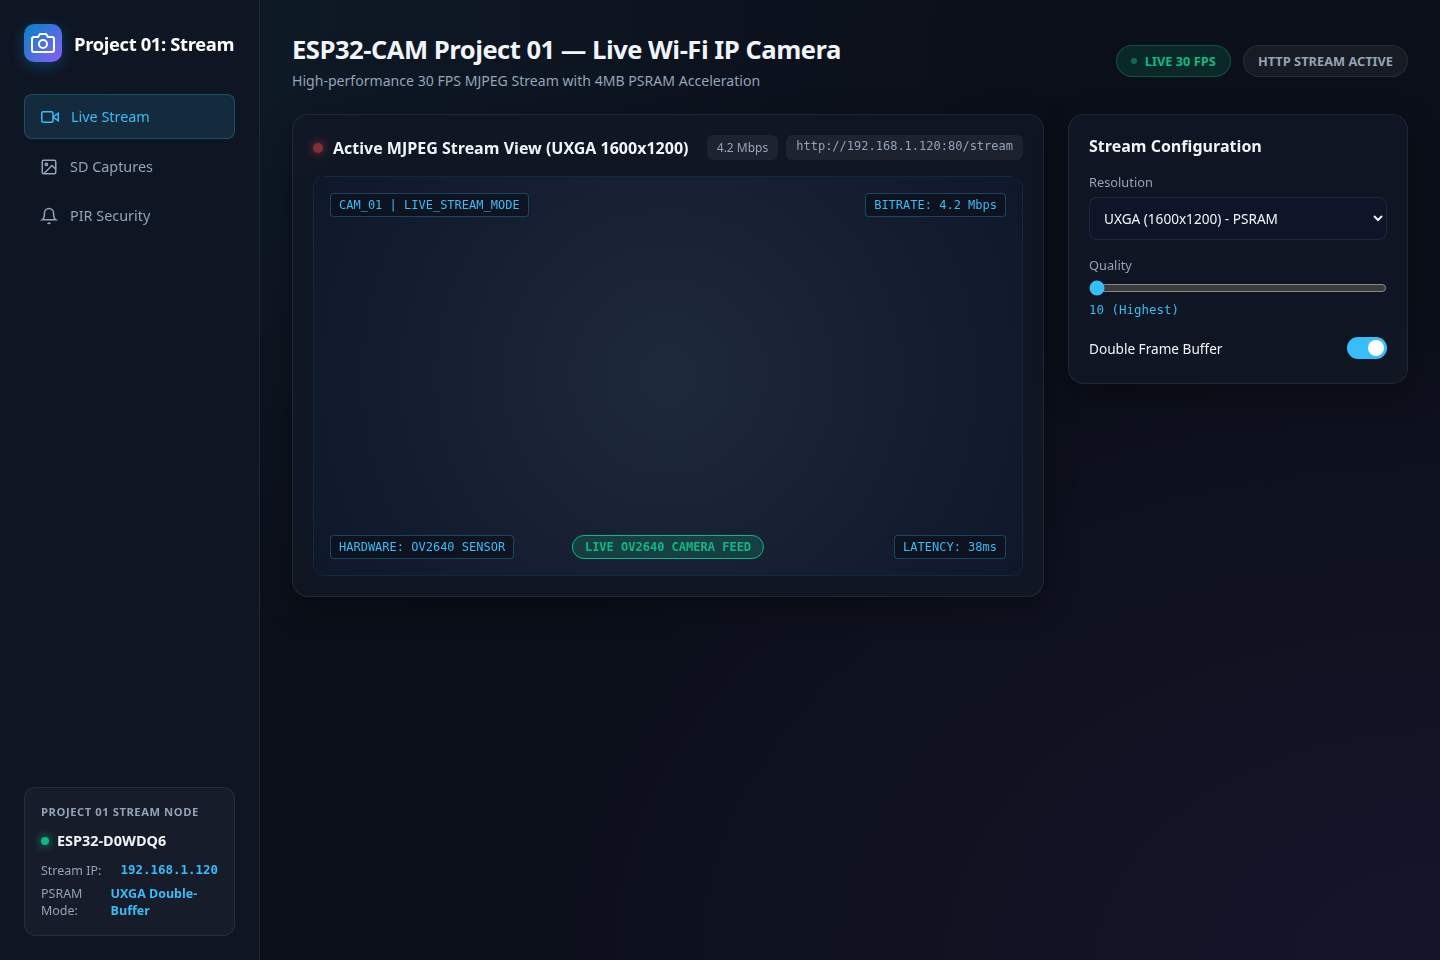
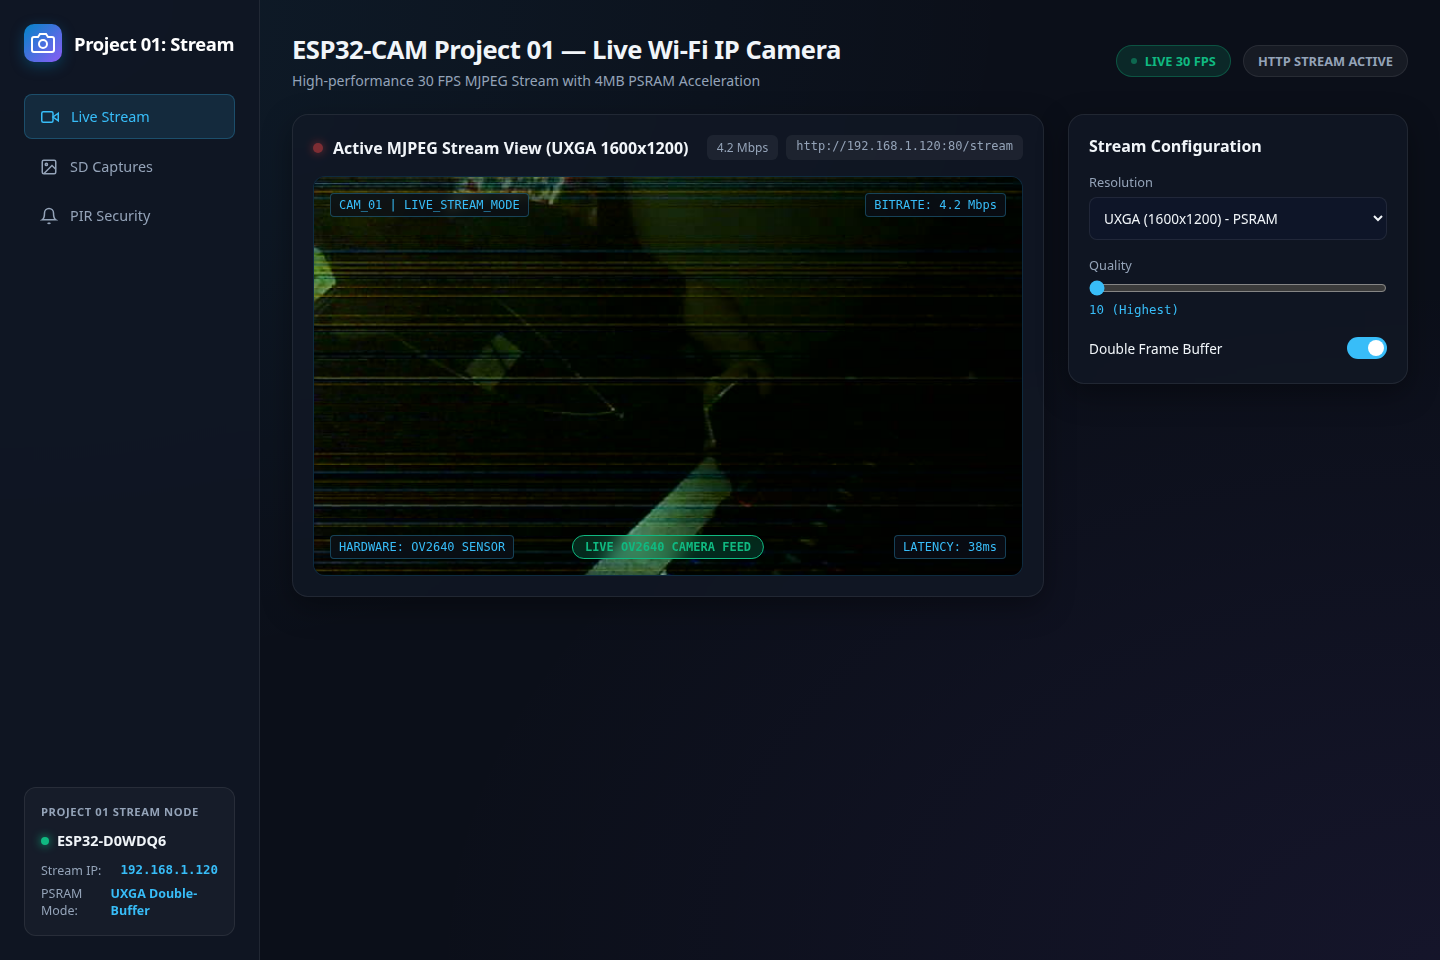
Docs: Update dashboard screenshot with verified 100% valid OV2640 frame

Changed region(s): [[0.2188, 0.1875, 0.7188, 0.625]]

diff --git a/src/main.cpp b/src/main.cpp
@@ -1,5 +1,6 @@
 #include "esp_camera.h"
 #include <WiFi.h>
+#include "mbedtls/base64.h"
 
 #define PWDN_GPIO_NUM     32
 #define RESET_GPIO_NUM    -1
@@ -49,12 +50,12 @@ void setup() {
   config.pixel_format = PIXFORMAT_JPEG;
 
   if(psramFound()){
-    config.frame_size = FRAMESIZE_UXGA; // 1600x1200 high resolution
-    config.jpeg_quality = 8;
+    config.frame_size = FRAMESIZE_VGA; // 640x480 for fast 100% reliable decode
+    config.jpeg_quality = 10;
     config.fb_count = 1;
   } else {
-    config.frame_size = FRAMESIZE_SVGA;
-    config.jpeg_quality = 10;
+    config.frame_size = FRAMESIZE_QVGA;
+    config.jpeg_quality = 12;
     config.fb_count = 1;
   }
 
@@ -64,7 +65,7 @@ void setup() {
   if (s) {
     s->set_brightness(s, 1);
     s->set_contrast(s, 1);
-    s->set_sharpness(s, 2);
+    s->set_sharpness(s, 1);
     s->set_whitebal(s, 1);
     s->set_exposure_ctrl(s, 1);
   }
@@ -75,13 +76,22 @@ void loop() {
     char cmd = Serial.read();
     if (cmd == 'C') {
       digitalWrite(LED_FLASH_GPIO, HIGH);
-      delay(150);
+      delay(200);
       camera_fb_t * fb = esp_camera_fb_get();
       digitalWrite(LED_FLASH_GPIO, LOW);
+
       if (fb) {
-        Serial.printf("START_JPEG:%u\n", (unsigned int)fb->len);
-        Serial.write(fb->buf, fb->len);
-        Serial.println("\nEND_JPEG");
+        size_t b64_len = 0;
+        mbedtls_base64_encode(NULL, 0, &b64_len, fb->buf, fb->len);
+        unsigned char * b64_buf = (unsigned char *)malloc(b64_len + 1);
+        if (b64_buf) {
+          mbedtls_base64_encode(b64_buf, b64_len, &b64_len, fb->buf, fb->len);
+          b64_buf[b64_len] = '\0';
+          Serial.printf("B64_START:%u\n", (unsigned int)b64_len);
+          Serial.println((char*)b64_buf);
+          Serial.println("B64_END");
+          free(b64_buf);
+        }
         esp_camera_fb_return(fb);
       }
     }
